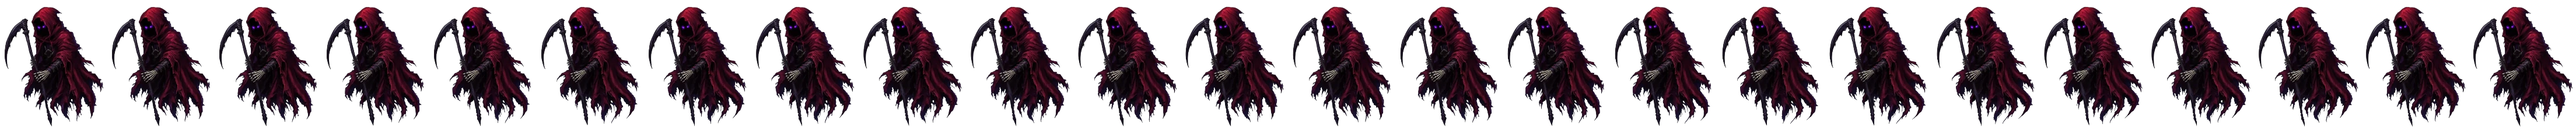
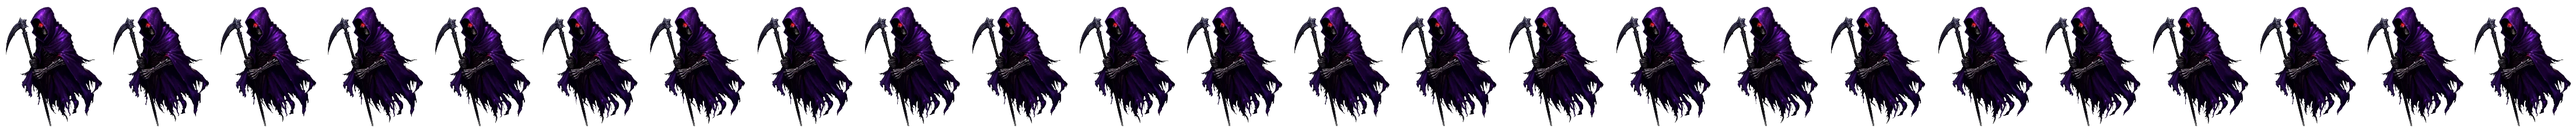
Give the reaper a purple robe and a red glow, skeletons a flat 25 souls, and the Raven a minute
- The reaper is redrawn meaner: a purple robe, glowing red eyes and a skull
  in the hood. His aura and the wisps he trails are red now, and the app
  and tray icons match; the tray icon has a red rim so it reads in the
  menu bar.
- Every skeleton costs 25 souls, instead of 15% more than the last.
- The Raven card offers a one-minute reminder.

Changed region(s): [[0.0, 0.0614, 1.0, 0.8904]]

diff --git a/desktop/renderer/style.css b/desktop/renderer/style.css
@@ -63,7 +63,8 @@ body.is-capturing * { visibility: hidden !important; }
   height: 114px;
   cursor: grab;
   animation: float 3.8s infinite ease-in-out;
-  filter: drop-shadow(0 0 6px rgba(120, 36, 186, 0.8)) drop-shadow(0 8px 12px rgba(110, 12, 32, 0.45));
+  /* His aura: a red glow around a purple robe. */
+  filter: drop-shadow(0 0 6px rgba(230, 28, 48, 0.85)) drop-shadow(0 8px 14px rgba(150, 8, 24, 0.55));
   transition: filter 0.3s ease;
 }
 
@@ -95,11 +96,11 @@ body.is-capturing * { visibility: hidden !important; }
 
 .reaper.is-moving .body {
   animation-play-state: paused;
-  filter: drop-shadow(0 0 9px rgba(164, 64, 230, 0.95)) drop-shadow(0 0 16px rgba(160, 24, 52, 0.55));
+  filter: drop-shadow(0 0 9px rgba(255, 48, 64, 0.95)) drop-shadow(0 0 18px rgba(170, 10, 30, 0.65));
 }
 
 .reaper.is-resting .body { animation: kneel 0.55s ease forwards; }
-.reaper.is-sleeping .body { animation: breathe 5s ease-in-out infinite; filter: brightness(0.7) drop-shadow(0 0 4px rgba(120, 36, 186, 0.5)); }
+.reaper.is-sleeping .body { animation: breathe 5s ease-in-out infinite; filter: brightness(0.7) drop-shadow(0 0 4px rgba(200, 24, 40, 0.5)); }
 .reaper.is-hungry .body { filter: drop-shadow(0 0 14px var(--death)) drop-shadow(0 0 4px #fff); animation: hunger 0.4s ease-in-out infinite; }
 .reaper.is-vanished { opacity: 0.22; }
 .reaper.is-vanished .soul { visibility: hidden; }
@@ -528,8 +529,8 @@ body.is-capturing * { visibility: hidden !important; }
   height: 10px;
   margin: -5px 0 0 -5px;
   border-radius: 50%;
-  background: rgba(190, 140, 255, 0.7);
-  box-shadow: 0 0 10px rgba(164, 64, 230, 0.9);
+  background: rgba(255, 120, 110, 0.75);
+  box-shadow: 0 0 10px rgba(230, 30, 50, 0.9);
   animation: wisp 0.7s ease-out forwards;
 }
 

diff --git a/desktop/crypt.js b/desktop/crypt.js
@@ -7,8 +7,7 @@
 // more souls on their own, including while the user is away or the app is shut.
 
 export const RATE_PER_HOUR = 6;   // souls one skeleton digs up in an hour
-export const BASE_COST = 25;      // the first skeleton
-export const GROWTH = 1.15;       // each one costs this much more than the last
+export const COST = 25;           // souls to raise a skeleton, every one alike
 export const MAX_SKELETONS = 200;
 // Time nobody was counting (the app shut, the computer asleep) pays out up to this.
 export const AWAY_CAP_HOURS = 8;
@@ -32,7 +31,8 @@ export function clean(raw, now = Date.now()) {
   };
 }
 
-export const cost = (owned) => Math.ceil(BASE_COST * GROWTH ** owned);
+// What the next skeleton costs. The same for every one, however many there are.
+export const cost = () => COST;
 export const perHour = (c) => c.skeletons * RATE_PER_HOUR;
 
 // Pay out what the skeletons dug since the last count. Returns the souls added.

diff --git a/desktop/renderer/crypt.js b/desktop/renderer/crypt.js
@@ -34,7 +34,7 @@ export function createCrypt(ctx) {
     souls.textContent = now.souls + (now.souls === 1 ? ' soul' : ' souls');
     horde.textContent = now.skeletons
       ? now.skeletons + (now.skeletons === 1 ? ' skeleton digs up ' : ' skeletons dig up ') + now.perHour + ' souls an hour.'
-      : 'No skeletons yet. The first costs ' + now.nextCost + ' souls.';
+      : 'No skeletons yet. Each costs ' + now.nextCost + ' souls.';
     raiseOne.textContent = 'Raise a skeleton · ' + now.nextCost;
     raiseOne.disabled = now.souls < now.nextCost;
     crew();

diff --git a/desktop/renderer/abilities.js b/desktop/renderer/abilities.js
@@ -154,7 +154,7 @@ export function createAbilities(ctx) {
     input.placeholder = 'Remind me to…';
     let minutes = 15;
     const row = el('div', 'row');
-    const chips = [5, 15, 30, 60].map((m) => {
+    const chips = [1, 5, 15, 30, 60].map((m) => {
       const c = chip(m < 60 ? m + ' min' : '1 hour', () => {
         minutes = m;
         chips.forEach((x) => x.classList.toggle('is-on', x === c));

diff --git a/desktop/README.md b/desktop/README.md
@@ -97,7 +97,7 @@ You earn souls by using him:
 | A file he eats | 5 |
 | A finished Hourglass | 1 for each minute |
 
-Souls raise **skeletons**. The first costs 25, and each one after costs 15% more than the last. Every skeleton digs up 6 souls an hour, all the time: while you work, while you're away, and while the app is shut.
+Souls raise **skeletons**, for 25 souls each. Every skeleton digs up 6 souls an hour, all the time: while you work, while you're away, and while the app is shut.
 
 - When you come back to the computer, he tells you what they dug up while you were gone.
 - When the app was shut or the computer asleep, they are paid for up to 8 hours of it.
